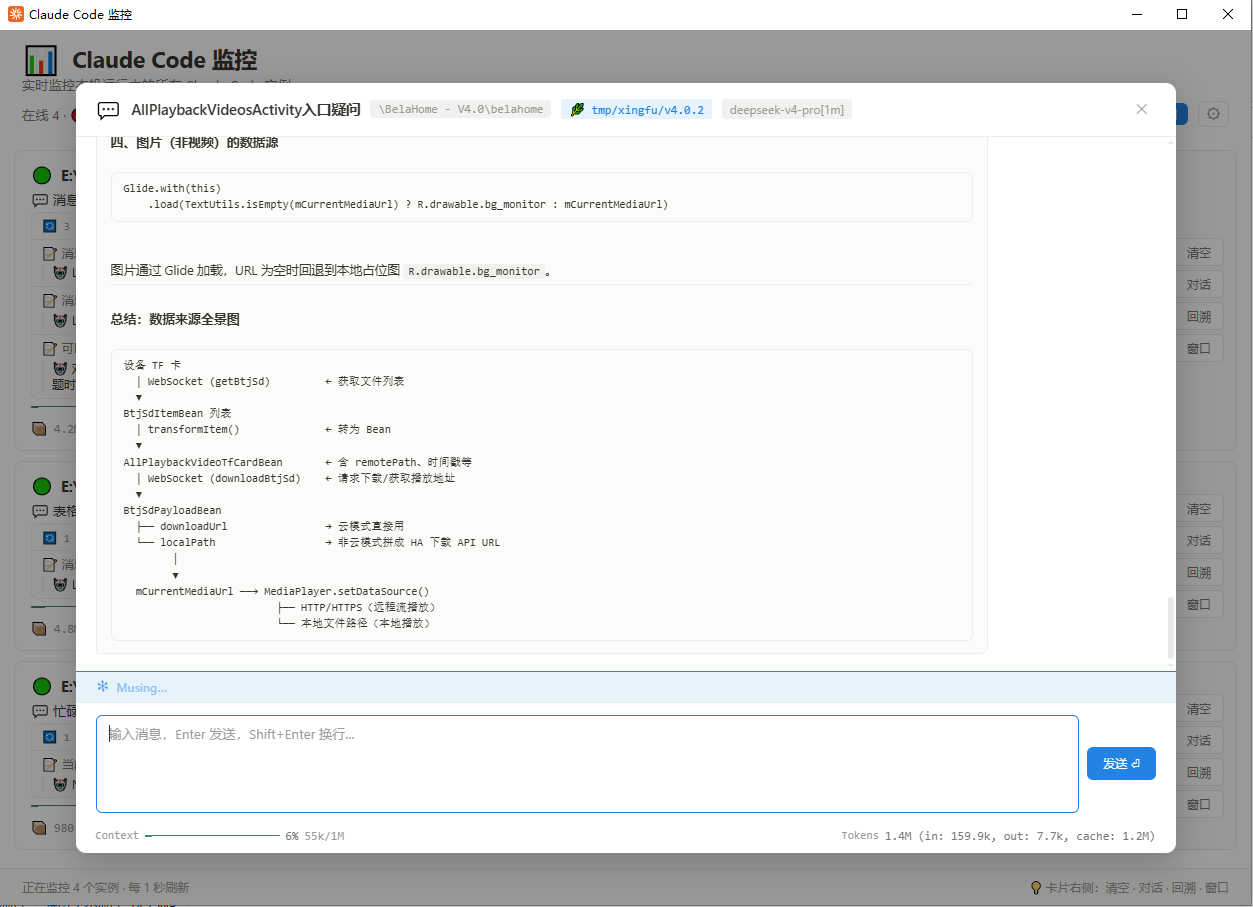
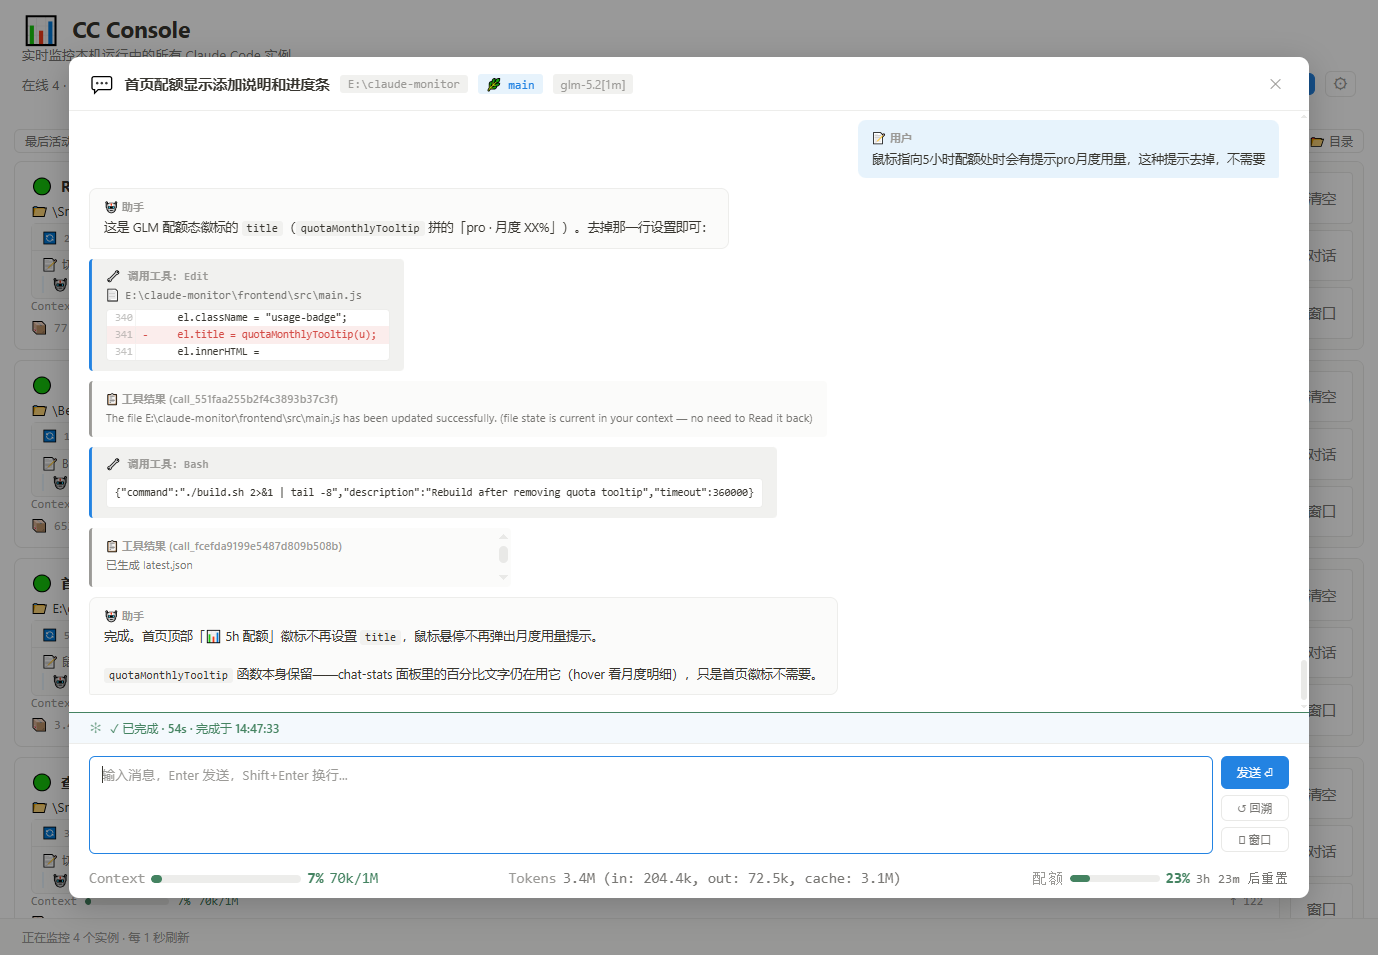
feat: v1.4.4 — README 重写（GUI 替代终端定位）+ 顶部用量徽标进度条
- README: 重新定位为「用 GUI 替代 PowerShell/终端驱动 Claude Code」，侧重聊天页消息发送与首页余额/配额，次要功能后置简述
- 顶部用量徽标: GLM 配额加「5h 配额」标签 + 进度条，倒计时补回分钟；移除悬停月度 tooltip；移除冗余桥接接入徽标

diff --git a/frontend/src/main.js b/frontend/src/main.js
@@ -310,38 +310,25 @@ async function pollBridgeStatus() {
 // ---- Stats ----
 function updateStats(stats) {
   const el = document.getElementById("stats");
-  const badge = document.getElementById("bridge-badge");
   if (!stats || stats.online === 0) {
     el.textContent = "🌙  当前无实例运行";
-    if (badge) badge.textContent = "";
     return;
   }
   const parts = ["在线 " + stats.online, "🔴 " + stats.busy + " 忙碌", "🟢 " + stats.idle + " 空闲"];
   if (stats.totalTokens > 0) parts.push("📦 " + formatTokens(stats.totalTokens) + " tokens");
   if (stats.stale > 0) parts.push("🌓 " + stats.stale + " 残留");
   el.textContent = parts.join("  ·  ");
-  // statusline 桥接接入徽标:让用户看到实时数据接入比例
-  if (badge) {
-    var hooked = stats.online - (stats.offline || 0);
-    if ((stats.offline || 0) > 0) {
-      badge.textContent = "📡 实时 " + hooked + "/" + stats.online + " · " + stats.offline + " 待接入";
-      badge.className = "bridge-badge warn";
-    } else {
-      badge.textContent = "📡 实时接入 " + hooked + "/" + stats.online;
-      badge.className = "bridge-badge";
-    }
-  }
 }
 
 // renderUsageBadge 渲染首页顶部账号用量徽标（账号级，随 refresh 每秒刷新，倒计时走）。
-// GLM → 「📊 N% · Xh」(hover 月度)；DeepSeek → 「💰 ¥X」(hover 赠送/充值)；其余隐藏。
+// GLM → 「📊 5h 配额 [进度条] N% · Xh」(hover 月度明细)；DeepSeek → 「💰 余额 ¥X」(hover 赠送/充值)；其余隐藏。
 function renderUsageBadge() {
   var el = document.getElementById("usage-badge");
   if (!el) return;
   var u = usageState;
   if (!u || !u.available || (u.provider !== "glm" && u.provider !== "deepseek")) {
     el.classList.add("hidden");
-    el.textContent = "";
+    el.innerHTML = "";
     return;
   }
   el.classList.remove("hidden");
@@ -349,13 +336,21 @@ function renderUsageBadge() {
     var t = u.tokens || {};
     var pct = t.percentage || 0;
     var cls = quotaBarClass(pct);
-    el.textContent = "📊 " + pct + "% · " + quotaCountdownShort(t.nextResetTime || 0);
-    el.title = quotaMonthlyTooltip(u);
-    el.className = "usage-badge" + (cls ? " " + cls : "");
-  } else {
-    el.textContent = "💰 " + balanceDisplay(u.balance);
-    el.title = balanceTooltip(u.balance);
+    var reset = quotaCountdownShort(t.nextResetTime || 0);
     el.className = "usage-badge";
+    el.innerHTML =
+      '<span class="usage-label">📊 5h 配额</span>' +
+      '<span class="usage-bar ctx-progress' + (cls ? " " + cls : "") + '">' +
+        '<span class="ctx-progress-track"><span class="ctx-progress-fill" style="width:' + Math.min(100, Math.max(0, pct)) + '%"></span></span>' +
+      '</span>' +
+      '<span class="usage-value' + (cls ? " " + cls : "") + '">' + pct + '%</span>' +
+      (reset ? '<span class="usage-reset">· ' + reset + '</span>' : '');
+  } else {
+    el.className = "usage-badge";
+    el.title = balanceTooltip(u.balance);
+    el.innerHTML =
+      '<span class="usage-label">💰 余额</span>' +
+      '<span class="usage-value">' + balanceDisplay(u.balance) + '</span>';
   }
 }
 
@@ -367,7 +362,7 @@ function quotaCountdownShort(nextResetMs) {
   var s = Math.floor(ms / 1000);
   var h = Math.floor(s / 3600);
   var m = Math.floor((s % 3600) / 60);
-  if (h > 0) return h + "h";
+  if (h > 0) return h + "h" + (m > 0 ? m + "m" : "");
   if (m > 0) return m + "m";
   return s + "s";
 }

diff --git a/frontend/public/style.css b/frontend/public/style.css
@@ -112,28 +112,24 @@ body {
   color: var(--secondary-text);
 }
 
-/* statusline 桥接接入徽标 */
-.bridge-badge {
-  font-size: 9pt;
-  color: var(--status-idle);
-  margin-left: 8px;
-  white-space: nowrap;
-}
-.bridge-badge.warn { color: #d97706; font-weight: 500; }
-body.dark .bridge-badge.warn { color: #f59e0b; }
-
-/* 首页顶部账号用量徽标（GLM 配额 / DeepSeek 余额）；mid/high 按配额阈值变色 */
+/* 首页顶部账号用量徽标（GLM 配额 / DeepSeek 余额）：inline-flex 容器，
+   内含 标签 + 配额进度条 + 数值 + 倒计时；mid/high 仅作用于进度条 fill 与百分比数值，
+   复用 ctx-progress 形状与 context 配色，与卡片/chat-stats 进度条视觉一致。 */
 .usage-badge {
+  display: inline-flex;
+  align-items: center;
+  gap: 6px;
   font-size: 9pt;
-  color: var(--status-idle);
+  color: var(--secondary-text);
   margin-left: 8px;
   white-space: nowrap;
   cursor: default;
 }
-.usage-badge.mid { color: #d97706; font-weight: 500; }
-.usage-badge.high { color: #dc2626; font-weight: 600; }
-body.dark .usage-badge.mid { color: #f59e0b; }
-body.dark .usage-badge.high { color: #f87171; }
+.usage-badge .ctx-progress-track { width: 56px; height: 6px; }
+.usage-reset { font-size: 8.5pt; color: var(--subtle-text); }
+.usage-value { font-weight: 500; color: var(--secondary-text); }
+.usage-value.mid { color: var(--context-mid); font-weight: 600; }
+.usage-value.high { color: var(--context-high); font-weight: 600; }
 
 .clock {
   font-family: "Cascadia Code", "Consolas", monospace;

diff --git a/frontend/index.html b/frontend/index.html
@@ -18,7 +18,6 @@
       <div class="spacer-8"></div>
       <div class="stats-row">
         <span id="stats" class="stats-text">正在检测...</span>
-        <span id="bridge-badge" class="bridge-badge"></span>
         <span id="usage-badge" class="usage-badge hidden"></span>
         <span class="flex-spacer"></span>
         <span id="clock" class="clock"></span>

diff --git a/service/monitor_service.go b/service/monitor_service.go
@@ -272,7 +272,7 @@ type SettingsResult struct {
 }
 
 // Version 应用版本号。
-const Version = "1.4.3"
+const Version = "1.4.4"
 
 // GetSettings 返回当前设置。
 func (s *MonitorService) GetSettings() *SettingsResult {

diff --git a/README.md b/README.md
@@ -1,62 +1,67 @@
 # CC Console
 
-Windows 桌面小工具，**实时监控本机所有 Claude Code 实例**，支持远程操控（清空 / 发消息 / 回溯 / 置前窗口）、启动新实例、查看对话历史。系统托盘常驻，每秒刷新，跟随系统明暗主题。
+**用图形界面替代 PowerShell / 终端来驱动 Claude Code。** 把「开一堆终端窗口、来回切换、手敲命令」变成一个窗口——在这里管理所有运行中的实例、直接发消息对话、实时查看账号用量与余额。
+
+系统托盘常驻，每秒刷新，跟随系统明暗主题。
 
 ![主界面](page_main.png)
 
 ---
 
-## 主要功能
+## 它替你做了什么
 
-### 📊 实时监控
+日常用 Claude Code，多半是在 PowerShell / Windows Terminal 里手敲：开几个会话就得切几个窗口，看不到全局，看不到这次对话烧了多少 token、账号余额还剩多少，Claude 弹个选项还得回到终端里按上下键选。CC Console 把这些统统搬进一个 GUI：
 
-顶部面板一眼看清全局——在线数、忙碌/空闲计数、上下文总用量、残留会话数。每个实例一张卡片，展示：
+- **不用切终端**——在一个列表里看清所有实例，点开就能对话
+- **不用回终端选选项**——Claude 提问时直接在界面上点按钮
+- **不用算账**——账号配额 / 余额实时显示在首页顶部
 
-- 🔴/🟢 状态指示灯（忙碌时脉冲呼吸动画，老远就知道谁在干活）
-- 工作目录、PID、模型、运行时长、对话主题
-- **上下文用量进度条**：百分比 + 已用/上限，<50% 绿色 · 50%~80% 黄色 · ≥80% 红色
-- 本轮输出 tokens + 累计 tokens（input / output / cache 明细）
+---
 
-### 🎮 远程操控
+## ✨ 核心功能
 
-卡片右侧四键，无需切到终端窗口，直接驱动目标实例：
+### 💬 在 GUI 里直接对话（消息发送）
 
-| 按钮 | 动作 |
-|---|---|
-| **清空** | 发送 `/clear`，清空对话上下文 |
-| **对话** | 发送自定义文本到实例（Shift+Enter 或回车发送可配置） |
-| **回溯** | 发送 `ESC×2`，中断当前操作 |
-| **窗口** | 把实例的终端窗口拉到最前 |
+点击任意实例卡片的「对话」按钮打开聊天面板，像聊天软件一样和这个 Claude Code 实例交流：
 
-### 💬 对话历史
+- **发送消息**：底部输入框直接输入，`Enter` 发送、`Shift+Enter` 换行；支持多行、草稿自动保存、`↑/↓` 调出历史消息、斜杠命令（`/`）自动补全
+- **完整对话流**：用户消息、助手回复、工具调用与结果（Edit 的 diff、Markdown 渲染、消息时间戳）一目了然
+- **Claude 提问直接点选**：当 Claude 用 `AskUserQuestion` 抛出选项时，面板里直接渲染成按钮，点一下就把选择发给实例——多问逐题导航、带说明文字、支持多选，**完全不用切回终端按上下键**
+- **Plan 模式 / 权限请求**：同样在面板里一键应答
+- **回溯**：打开 Claude 的回溯选择器并自动把终端置前
+- **底部信息条**：Context 胶囊进度条、本轮 / 累计 tokens、会话费用与时长、5 小时配额进度 + 重置倒计时
 
-点击实例卡片展开完整对话记录，包含消息、工具调用及结果，支持折叠浏览。
+![对话](page_message.png)
 
-![对话历史](page_message.png)
+### 🏠 主页：全局监控 + 账号用量
 
-### 🚀 启动新实例
+主页一眼看清全局，并在顶部直接显示当前账号的**用量 / 余额**：
 
-从监控器直接在新的终端窗口启动 Claude Code——支持手动选择目录，或从最近使用目录一键启动。终端窗口可配置为显示/隐藏。
+- **顶部用量徽标**：按你 Claude Code 的后端自动切换——
+  - **GLM（z.ai / 智谱）**：显示 `📊 5h 配额` + 进度条 + 百分比 + 重置倒计时，接近上限自动变橙 / 红
+  - **DeepSeek**：显示 `💰 余额 ¥X`
+- **全局统计**：在线数、忙碌 / 空闲计数、累计 Context tokens、残留会话数
+- **实例卡片**：状态灯（忙碌时脉冲呼吸）、工作目录、模型、运行时长、对话主题、**Context 用量进度条**（绿 / 黄 / 红分级）、本轮输出与累计 token 明细
+
+### 🚀 一键启动新实例
+
+从监控器直接在新的终端窗口拉起 Claude Code：手动选目录，或从最近使用目录一键启动；终端窗口可设为显示 / 隐藏。
 
 ![新建实例](page_new.png)
 
-### 🔄 版本更新
+---
 
-内置更新检查，自动检测 GitHub 最新 Release，支持一键下载安装包并替换，实时显示下载进度。发布时需同时提供 `latest.json` manifest 与 minisign 签名，应用会在安装前校验安装包签名。
+## 其他功能
 
-### 📋 排序与筛选
-
-按「最后活动 / 建立时间 / Context 用量」排序，支持升降序。最后活动维度先按「忙碌 → 空闲 → 残留」分组，最忙的永远在最上面。
-
-### ⚙️ 更多
-
-- **系统托盘常驻**：关闭窗口默认隐藏到托盘，右键退出。托盘 Tooltip 实时显示概要
-- **单实例**：重复启动自动激活已有窗口
-- **明暗主题**：自动跟随系统，Notion 风格配色
-- **命令行模式**：`cc-console.exe --list` 终端打印一次表格后退出，适合脚本/日志
+- **卡片快捷操作**：`清空`（发 `/clear`）、`窗口`（把实例终端置前）
+- **排序与筛选**：按最后活动 / 建立时间 / Context 用量排序；按工作目录筛选
+- **版本更新**：内置更新检查，自动下载安装包并校验 minisign 签名后替换
+- **系统托盘**：关闭窗口隐藏到托盘常驻；单实例（重复启动激活已有窗口）
+- **明暗主题**：跟随系统，Notion 风格
+- **命令行模式**：`cc-console.exe --list` 打印一次实例表格后退出，适合脚本
 - **开机启动**：设置面板一键开关
 
-> 📖 更多细节见 [docs/功能介绍.md](docs/功能介绍.md)
+> 📖 细节可参考 [docs/功能介绍.md](docs/功能介绍.md)（部分内容为早期版本）
 
 ---
 
@@ -109,7 +114,7 @@ PID      状态        模型            Context           本轮   对话主题
 
 ### 应用设置
 
-在 GUI 设置面板（⚙）中可直接配置：关闭按钮行为、开机启动、终端窗口模式、消息发送键。
+GUI 设置面板（⚙）可配置：关闭按钮行为、开机启动、终端窗口模式、消息发送键。
 
 ---
 